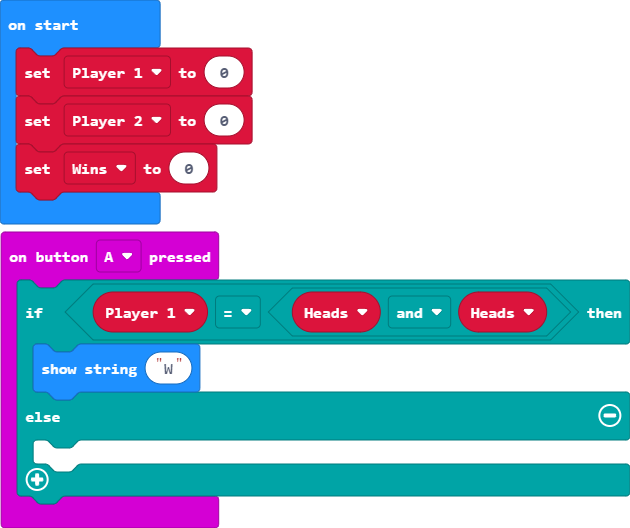
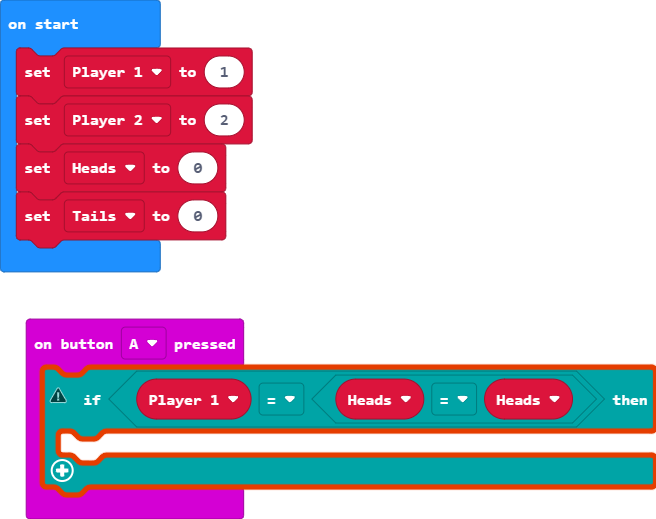
Update main.blocks, main.ts

diff --git a/main.ts b/main.ts
@@ -1,12 +1,11 @@
 input.onButtonPressed(Button.A, function () {
-    let Heads = 0
-    if (Player_1 == (Heads && Heads)) {
-        basic.showString("W")
-    } else {
+    if (Player_1 == (Heads == Heads)) {
     	
     }
 })
+let Heads = 0
 let Player_1 = 0
-Player_1 = 0
-let Player_2 = 0
-let Wins = 0
+Player_1 = 1
+let Player_2 = 2
+Heads = 0
+let Tails = 0
